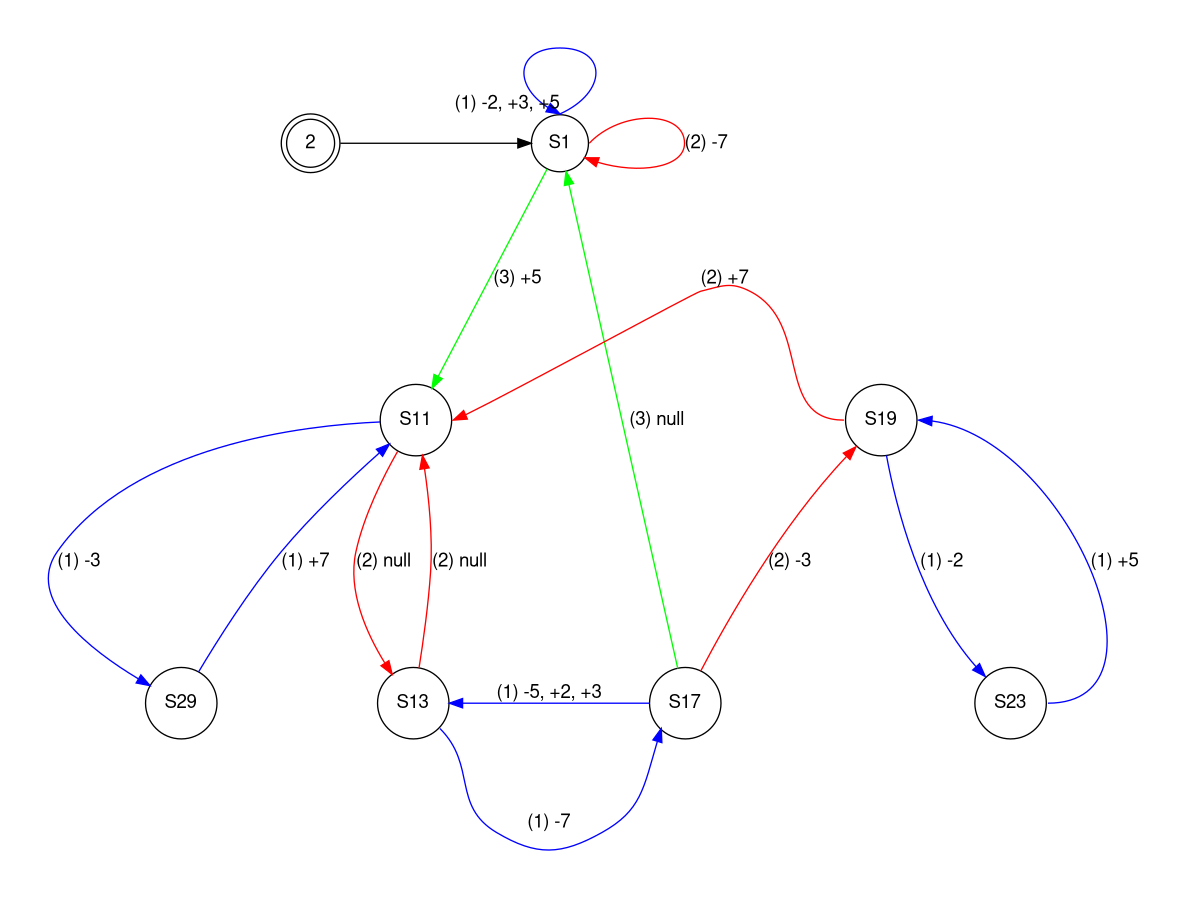
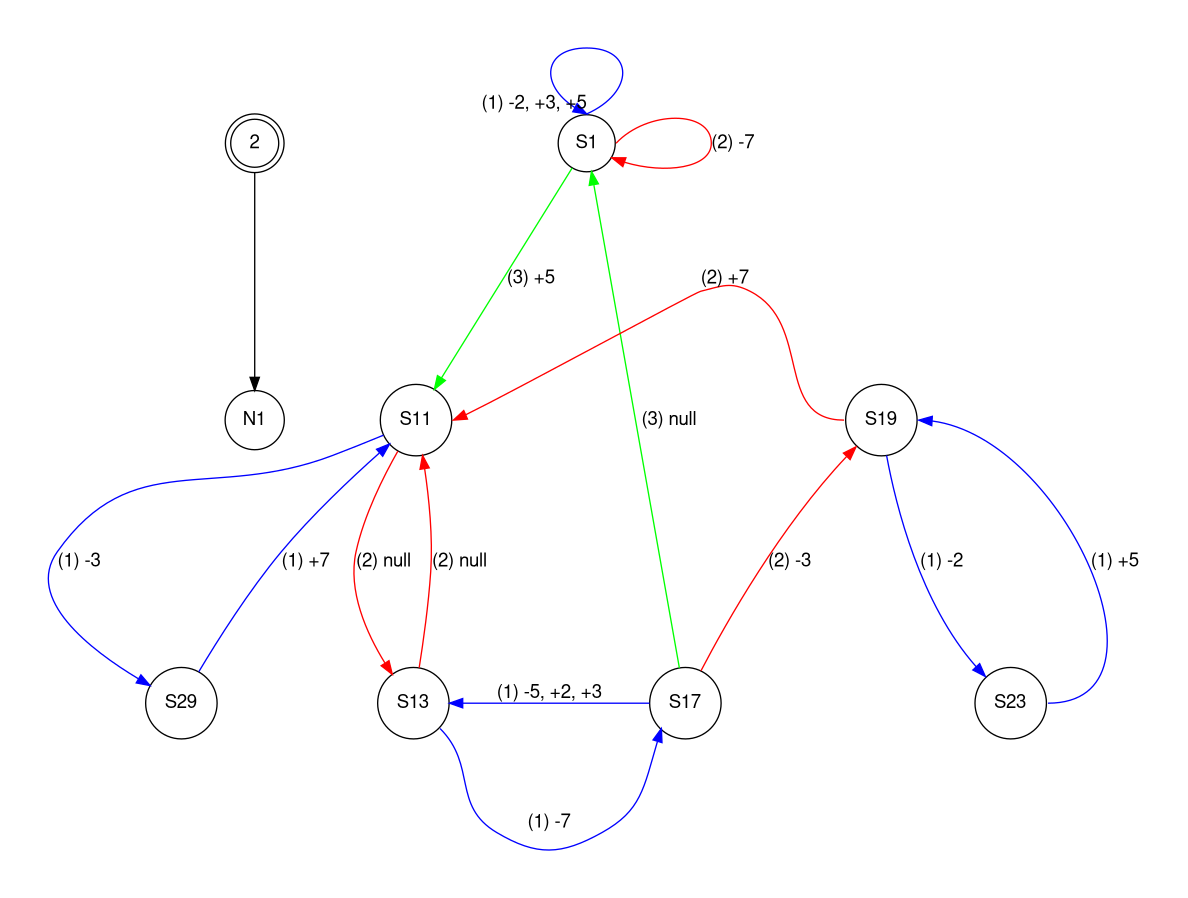
updates to fractran

diff --git a/posts/project-euler-num-308/index.html b/posts/project-euler-num-308/index.html
@@ -2,15 +2,17 @@
 <html lang="en">
 <head>
   
-    <title>FRACTRAN: John Conway&#39;s Programming Language Fun :: </title>
+    <title>FRACTRAN: John Conway’s Ridiculous Little Programming Language :: </title>
   
   <meta http-equiv="content-type" content="text/html; charset=utf-8">
 <meta name="viewport" content="width=device-width, initial-scale=1.0">
-<meta name="description" content="Some months back I learned of an esoteric programming languages created by mathematician John Conway. Conway also created the well known Game of Life.
-The language is called FRACTRAN (see here for a Conway lecture).
-Very simply a FRACTRAN program is an ordered list of positive fractions \[ f_1, f_2, &amp;hellip; f_a \] and an initial integer, \( n \).
-A FRACTRAN program is run in the following manner:
-for the first fraction \( f_i \) in the list for which \( n * f_i \) is an integer, replace \( n \) by \( n * f_i \) repeat the first rule until no fraction in the list produces an integer when multiplied by \( n \), then halt." />
+<meta name="description" content="Some months back I learned about an esoteric programming language created by mathematician John Conway. Conway also created the well-known Game of Life.
+The language is called FRACTRAN (there’s a wonderful introductory lecture by Conway himself here).
+Very simply, a FRACTRAN program is an ordered list of positive fractions
+\[ f_1, f_2, \ldots, f_k \]
+and an initial integer \( n \).
+The program runs like this:
+Find the first fraction \( f_i \) in the list such that \( n \cdot f_i \) is an integer, and replace \( n \) with that new integer." />
 <meta name="keywords" content="" />
 
   <meta name="robots" content="noodp" />
@@ -76,12 +78,14 @@ for the first fraction \( f_i \) in the list for which \( n * f_i \) is an integ
 
 <meta property="og:locale" content="en" />
 <meta property="og:type" content="article" />
-<meta property="og:title" content="FRACTRAN: John Conway&#39;s Programming Language Fun">
-<meta property="og:description" content="Some months back I learned of an esoteric programming languages created by mathematician John Conway. Conway also created the well known Game of Life.
-The language is called FRACTRAN (see here for a Conway lecture).
-Very simply a FRACTRAN program is an ordered list of positive fractions \[ f_1, f_2, &amp;hellip; f_a \] and an initial integer, \( n \).
-A FRACTRAN program is run in the following manner:
-for the first fraction \( f_i \) in the list for which \( n * f_i \) is an integer, replace \( n \) by \( n * f_i \) repeat the first rule until no fraction in the list produces an integer when multiplied by \( n \), then halt." />
+<meta property="og:title" content="FRACTRAN: John Conway’s Ridiculous Little Programming Language">
+<meta property="og:description" content="Some months back I learned about an esoteric programming language created by mathematician John Conway. Conway also created the well-known Game of Life.
+The language is called FRACTRAN (there’s a wonderful introductory lecture by Conway himself here).
+Very simply, a FRACTRAN program is an ordered list of positive fractions
+\[ f_1, f_2, \ldots, f_k \]
+and an initial integer \( n \).
+The program runs like this:
+Find the first fraction \( f_i \) in the list such that \( n \cdot f_i \) is an integer, and replace \( n \) with that new integer." />
 <meta property="og:url" content="https://kes.github.io/posts/project-euler-num-308/" />
 <meta property="og:site_name" content="" />
 
@@ -181,7 +185,7 @@ for the first fraction \( f_i \) in the list for which \( n * f_i \) is an integ
     
 <article class="post">
   <h1 class="post-title">
-    <a href="https://kes.github.io/posts/project-euler-num-308/">FRACTRAN: John Conway&rsquo;s Programming Language Fun</a>
+    <a href="https://kes.github.io/posts/project-euler-num-308/">FRACTRAN: John Conway’s Ridiculous Little Programming Language</a>
   </h1>
   <div class="post-meta"><time class="post-date">2025-11-16</time><span class="post-author">[Karl Stump]</span></div>
 
@@ -200,58 +204,24 @@ for the first fraction \( f_i \) in the list for which \( n * f_i \) is an integ
   
 
   <div class="post-content"><div>
-        <p>Some months back I learned of an esoteric programming languages created by mathematician <a href="https://en.wikipedia.org/wiki/John_Horton_Conway">John Conway</a>. Conway also created the well known  <a href="https://en.wikipedia.org/wiki/Conway%27s_Game_of_Life">Game of Life</a>.</p>
-<p>The language is called <a href="https://en.wikipedia.org/wiki/FRACTRAN">FRACTRAN</a> (see <a href="https://www.uctv.tv/shows/Fractran-A-Ridiculous-Logical-Language-with-John-Conway-23320">here</a> for a Conway lecture).</p>
-<p>Very simply a <code>FRACTRAN</code> program is an ordered list of positive fractions \[ f_1, f_2, &hellip; f_a \]
-and an initial integer, \( n \).</p>
-<p>A <code>FRACTRAN</code> program is run in the following manner:</p>
+        <p>Some months back I learned about an esoteric programming language created by mathematician <a href="https://en.wikipedia.org/wiki/John_Horton_Conway">John Conway</a>. Conway also created the well-known <a href="https://en.wikipedia.org/wiki/Conway%27s_Game_of_Life">Game of Life</a>.</p>
+<p>The language is called <a href="https://en.wikipedia.org/wiki/FRACTRAN">FRACTRAN</a> (there’s a wonderful introductory lecture by Conway himself <a href="https://www.uctv.tv/shows/Fractran-A-Ridiculous-Logical-Language-with-John-Conway-23320">here</a>).</p>
+<p>Very simply, a <code>FRACTRAN</code> program is an ordered list of positive fractions</p>
+<p>\[ f_1, f_2, \ldots, f_k \]</p>
+<p>and an initial integer \( n \).</p>
+<p>The program runs like this:</p>
 <ol>
-<li>for the first fraction \( f_i \) in the list for which \( n * f_i \) is an integer, replace \( n \) by \( n * f_i \)</li>
-<li>repeat the first rule until no fraction in the list produces an integer when multiplied by \( n \), then halt.</li>
+<li>Find the first fraction \( f_i \) in the list such that \( n \cdot f_i \) is an integer, and replace \( n \) with that new integer.</li>
+<li>Repeat step (1) until no fraction in the list produces an integer when multiplied by \( n \); then halt.</li>
 </ol>
-<p>Using the above two rules, Conway wrote a <del>list of fractions</del> program that produce a list of numbers that include ordered powers of two, such that their exponents are prime. (That&rsquo;s the type of statement that I have to repeat to make sure that I said it correctly.)</p>
-<p>So, amazingly, running the <code>FRACTRAN</code> program, we get a list of numbers like: \[ 2^2 , 2^3, 2^5, 2^7,  2^{11}, 2^{13} \dots  \]</p>
-<p>Notice those exponents are prime. But also notice that I said &ldquo;like.&rdquo; Here&rsquo;s the thing. While these exponents of 2 are prime, and ordered, there are lots of other numbers produced as well.</p>
-<p>So, we get: \( \text{garbage, garbage, garbage } \ldots 2^5 \text{ garbage, garbage, garbage } \ldots 2^7 \ldots \)&quot;</p>
-<p>Let&rsquo;s look at a <code>FRACTRAN</code> problem statement from <a href="https://projecteuler.net/about">Project Euler</a>.</p>
-<p>You can find the problem here: <a href="https://projecteuler.net/problem=308">https://projecteuler.net/problem=308</a></p>
-<p>And, I have reproduced it here:</p>
-<style>
-.verse {
-    margin-bottom: 10px;
-    padding: 10px;
-    ##background-color: #FFF8DC;
-    border-left: 2px solid #ffeb8e;
-    border-left-color: rgb(255, 228, 102);
-    display: block;
-    margin-block-start: 1em;
-    margin-block-end: 1em;
-    margin-inline-start: 40px;
-    margin-inline-end: 40px;
-}
-</style>
-<div class="verse">
-<p>A program written in the programming language Fractran consists of a list of fractions.<br />
-<br />
-The internal state of the Fractran Virtual Machine is a positive integer, which is initially set to a seed value. Each iteration of a Fractran program multiplies the state integer by the first fraction in the list which will leave it an integer.<br />
-<br />
-For example, one of the Fractran programs that John Horton Conway wrote for prime-generation consists of the following 14 fractions:<br />
-<br />
-<br />
-\[ \dfrac{17}{91}, \dfrac{78}{85}, \dfrac{19}{51}, \dfrac{23}{38}, \dfrac{29}{33}, \dfrac{77}{29}, \dfrac{95}{23}, \dfrac{77}{19}, \dfrac{1}{17}, \dfrac{11}{13}, \dfrac{13}{11}, \dfrac{15}{2}, \dfrac{1}{7}, \dfrac{55}{1} \]<br />
-<br />
-<br />
-Starting with the seed integer 2, successive iterations of the program produce the sequence:<br />
-<br />
-\( 15, 825, 725, 1925, 2275, 425, &hellip;, 68, 4, 30, &hellip;, 136, 8, 60, &hellip;, 544, 32, 240, &hellip; \)<br />
-<br />
-The powers of 2 that appear in this sequence are \( 2^2 \), \( 2^3 \), \( 2^5 \), \( &hellip; \)<br />
-<br />
-It can be shown that <em>all</em> the powers of 2 in this sequence have prime exponents and that <em>all</em> the primes appear as exponents of powers of 2, in proper order!<br />
-<br />
-If someone uses the above Fractran program to solve Project Euler Problem 7 (find the 10001st prime), how many iterations would be needed until the program produces 2^10001st prime?<br /></p>
-</div>
-<p>So, we want to find the number of iterations it takes for Conway&rsquo;s program to produce  \( 2^{10001^{st}\text{ prime }} \). Now, we know that the  10001<sup>st</sup>  prime is \( 104743 \) (See <a href="https://www.wolframalpha.com/input?i=10001st%20prime%20number">WolfRamAlpha</a>, or see <a href="https://kes.github.io/posts/project-euler-num-7/">my Lisp solution</a>). So the question is: how many iteration until we get \( 2^{104743} \) &ndash; a huge number, obviously. Fortunately we don&rsquo;t have to calculate it. So, again, (not to beat a dead horse) the number of iterations until \( 2 \) has an exponent of \( 104743 \).</p>
+<p>Using only this mechanism, Conway wrote a FRACTRAN program that generates a sequence of numbers in which certain terms are powers of two whose exponents are prime. For example, starting from 2, the program eventually produces values like</p>
+<p>\[ 2^2,\; 2^3,\; 2^5,\; 2^7,\; 2^{11},\; 2^{13}, \ldots \]</p>
+<p>The exponents are prime, and they appear in increasing order. In between those special values, the program produces a lot of &ldquo;other&rdquo; numbers &mdash; noise. The job ahead will be to navigate that noise efficiently.</p>
+<p>In this post, we’ll look at <a href="https://projecteuler.net/problem=308">Project Euler Problem 308</a>, which asks:</p>
+<blockquote>
+<p>If someone uses Conway’s <code>FRACTRAN</code> prime-generating program to &ldquo;solve&rdquo; Project Euler Problem 7 (find the 10,001st prime), how many iterations of the program are needed before we reach the power of two whose exponent is that prime?</p>
+</blockquote>
+<p>We can start with a simple <code>FRACTRAN</code> simulator in Common Lisp, then gradually uncover the finite state machine hiding inside Conway’s fraction list, and finally arrive at an optimized implementation that can handle the enormous iteration count.</p>
 <h2 id="the-idea-of-a-fractran-simulator">The Idea of a FRACTRAN Simulator<a href="#the-idea-of-a-fractran-simulator" class="hanchor" ariaLabel="Anchor">#</a> </h2>
 <p>In Common Lisp, we can define the program easily as a list of lists. For each list in the list <code>*fp*</code> below, the <code>car</code> (i.e., the first element of the list) is the numerator, while the <code>cadr</code> (i.e., the second element of the list) is the denominator.</p>
 <p><a id="code-snippet--fractran-program"></a></p>
@@ -262,9 +232,9 @@ If someone uses the above Fractran program to solve Project Euler Problem 7 (fin
 </span></span></code></pre></div><p>We can then define a function that runs the program for one iteration.</p>
 <p>To review a bit: we&rsquo;ve been told that we are to pass in a seed number, also called the state, and that number is multiplied by the first fraction. If we get an integer, we return that integer. If not, we discard the calculation and move on to the next fraction and follow the same process:</p>
 <ul>
-<li>multiple the state by the fraction, and if we get an integer then return it, otherwise, discard the calculation and move on.</li>
+<li>multiply the state by the fraction, and if we get an integer then return it, otherwise, discard the calculation and move on.</li>
 </ul>
-<p>If we exhaust all the fractions and hav not gotten an integer, the program halts. (However, if you look closely at Conway&rsquo;s <del>list of fractions</del> program, you can see that we will always get a new integer. <em>Hint</em> look at the last fraction.)</p>
+<p>If we exhaust all the fractions and have not gotten an integer, the program halts. (However, if you look closely at Conway&rsquo;s <del>list of fractions</del> program, you can see that we will always get a new integer. <em>Hint</em> look at the last fraction.)</p>
 <p>So, our function looks like this:</p>
 <div class="highlight"><pre tabindex="0" style="color:#f8f8f2;background-color:#272822;-moz-tab-size:4;-o-tab-size:4;tab-size:4;"><code class="language-lisp" data-lang="lisp"><span style="display:flex;"><span>(defun fractran-simulator (state program)
 </span></span><span style="display:flex;"><span>  <span style="color:#e6db74">&#34;Apply STATE, to the PROGRAM using the multiplication operator.  Return
@@ -398,7 +368,7 @@ text-align: center;
 <h2 id="more-analysis">More Analysis<a href="#more-analysis" class="hanchor" ariaLabel="Anchor">#</a> </h2>
 <p>Taking the prime factors in the <code>FRACTRAN</code> program:</p>
 <p>\( \dfrac{17}{7 \times 13}, \dfrac{2 \times 3 \times 13}{5 \times 17}, \dfrac{19}{3 \times 17}, \dfrac{23}{2 \times 19}, \dfrac{29}{3 \times 11}, \dfrac{7 \times 11}{29}, \dfrac{5 \times 19}{23}, \dfrac{7 \times 11}{19}, \dfrac{1}{17}, \dfrac{11}{13}, \dfrac{13}{11}, \dfrac{3 \times 5}{2}, \dfrac{1}{7}, \dfrac{5 \times 11}{1} \)</p>
-<p>We need to consider exactly what is happening when we run the program. So, We start with \( 2 \). This is then multiplied by the fraction \( \dfrac{17}{7 \times 13} \). But what does that really mean? Multiplication is putting in factors, while division is taking out factors. So, we get,</p>
+<p>We need to consider exactly what is happening when we run the program. So, we start with \( 2 \). This is then multiplied by the fraction \( \dfrac{17}{7 \times 13} \). But what does that really mean? Multiplication is putting in factors, while division is taking out factors. So, we get,</p>
 <p>\[ \dfrac{2 \times 17}{7 \times 13} \]</p>
 <p>Clearly, this is not an integer. Let&rsquo;s move on to the next fraction, \(\dfrac{2 \times 3 \times 13}{5 \times 17} \), and multiplying by 2, we get</p>
 <p>\[ \dfrac{2^2 \times 3 \times 13}{5 \times 17} \]</p>
@@ -478,7 +448,7 @@ text-align: center;
 </table>
 </div>
 <p>Finally, we get an integer, \( 15 \), which we will feed back into the <code>FRACTRAN</code> program.</p>
-<p>It shouldn&rsquo;t be too hard to see that in the <code>FRACTAN</code> program the last fraction \( \dfrac{5 \times 11}{1} \) is a catchall, and when we feed \( 15 \) back into the program, it is only this fraction that when multiplied by \( 15 \) returns an integer, and so, iteration two gives us, \[ \dfrac{3 \times 5^2 \times 11}{1} \longrightarrow  825 \]</p>
+<p>It shouldn&rsquo;t be too hard to see that in the <code>FRACTRAN</code> program the last fraction \( \dfrac{5 \times 11}{1} \) is a catchall, and when we feed \( 15 \) back into the program, it is only this fraction that when multiplied by \( 15 \) returns an integer, and so, iteration two gives us, \[ \dfrac{3 \times 5^2 \times 11}{1} \longrightarrow  825 \]</p>
 <p>Now, a quiz. If we feed in \( 825 \) into the program, what is the first fraction that will return an integer? And what is the resulting integer value?</p>
 <p>If you said \( \dots \)</p>
 <p>\[ \dfrac{3 \times 5^2 \times 11}{1} \times \dfrac{29}{3 \times 11} \longrightarrow \dfrac{\cancel{3} \times 5^2 \times \cancel{11} \times 29}{\cancel{3} \times \cancel{11}} \longrightarrow 725 \]</p>
@@ -1159,21 +1129,21 @@ text-align: center;
 replaced it with &ldquo;&ndash;&rdquo;. This removes a lot of clutter and make the table easier to read.</p>
 <p>Examining the table it looks like primes \( 11 \) through \( 29 \) are mutually exclusive (an <code>XOR</code>). Only
 one can be on at a time.</p>
-<p>So, primes \( 11 \) through \( 29 \) function as nodes, in a state machine, while primes \( 2, 3, 5, \text{ and } 7 \) function as state.</p>
-<p>This distinction between the primes \( 11 \) through \( 29 \) and the primes \( 2 \)through \( 7 \) will become really important, like, right now!</p>
-<h2 id="grok-the-fractran-man">Grok the FRACTRAN, Man!<a href="#grok-the-fractran-man" class="hanchor" ariaLabel="Anchor">#</a> </h2>
+<p>So primes \( 11 \) through \( 29 \) function as <em>control nodes</em> in a finite state machine, while primes \( 2,3,5, \text{ and } 7 \) encode the data state (their exponents are the “registers” we’re updating).</p>
+<p>This distinction between the primes \( 11 \) through \( 29 \) and the primes \( 2 \) through \( 7 \) will become really important, like, right now!</p>
+<h2 id="grokking-fractran">Grokking FRACTRAN<a href="#grokking-fractran" class="hanchor" ariaLabel="Anchor">#</a> </h2>
 <p>Let&rsquo;s define a finite state machine (FSM) with a starting node, labeled \( 1 \), and further that there are nodes numbered, \( 11, 13, 17, 19, 23, 29 \), and that these nodes have edges.</p>
 <p>The FSM, also, has state, carried in factors, \( 2, 3, 5, \text{ and } 7 \) (or in variables representing those factors). Simply, think of exponents. So, the factor \( 2 \) we might say, has a value of \( 3 \), and this simply means, \( 2^3 \)</p>
 <p>In general moving along an edge, from node to node, will increment or decrement some, all, or no, factors. However, in no case, is a move permitted along any edge that causes the value of a factor to be less than zero.</p>
-<p>Every fraction in Conway&rsquo;s program, defines a node and an edge.</p>
+<p>Every fraction in Conway&rsquo;s program defines a node and an edge.</p>
 <p>Consider the first fraction in the program: \[ \dfrac{17}{7 \times 13} \]</p>
 <p>This fraction tells us that there is a node \( 13\) with an edge to node \( 17 \). Further movement along that edge decrements factor \( 7 \).</p>
 <p>If we look for other fractions with \( 13 \) in the denominator, we find: \[ \dfrac{11}{13} \]</p>
 <p>This means that node \( 13 \) also has a null edge to node \( 11 \).</p>
 <p>Now, since there are no other fractions with \( 13 \) in the denominator, this finishes the definition of node \( 13 \).</p>
 <p>So, there is in the FSM, node \(13\) with two edges. The first is to node \( 17 \) (allowed only if the current state value has a factor of \( 7 \) ), and a second null edge, to node \( 11 \).</p>
-<p>Note that the <code>FRACTRAN</code> program runs from left to right, so in the event of more than one edge from a node, there is a priority. The edge from node \( 13 \) to \( 17 \) takes priority over the transition to node \( 11 \).</p>
-<p>Working in this way, we can define our FSM as follows:</p>
+<p>Note that the <code>FRACTRAN</code> program runs from left to right, so in the event of more than one edge from a node, there is a priority. In programming languages this is called <em>associativity</em>. In <code>FRACTRAN</code> the <em>associativity</em> is left to right. In this example, the edge from node \( 13 \) to \( 17 \) takes priority over the edge to node \( 11 \).</p>
+<p>Working in this way, we can define our FSM as follows (if you are not conversant with dot code, don&rsquo;t worry about it, the actual diagram follows):</p>
 <pre tabindex="0"><code class="language-dot" data-lang="dot">digraph finite_state_machine {
     graph [pad=&#34;0.5&#34;, nodesep=&#34;1&#34;, ranksep=&#34;2&#34;];
     splines=true;
@@ -1183,7 +1153,7 @@ one can be on at a time.</p>
 
 	node [shape = doublecircle]; 2
 	node [shape = circle];
-2-&gt;S1
+2-&gt;N1
 S1:n -&gt; S1:n[margin=1;headlabel=&#34;(1) -2, +3, +5&#34;;color=blue];
 S1:e -&gt; S1[label=&#34;(2) -7&#34;;color=red];
 S1 -&gt; S11[label=&#34;(3) +5&#34;; color=green];
@@ -1210,7 +1180,7 @@ S29 -&gt; S11[label=&#34;(1) +7&#34;;color=blue];
 {rank=same; S11;S19};
 { rank=max;  S23;S13; S17; }
 }
-</code></pre><p>Which gives:</p>
+</code></pre><p>From the fraction list, the following is the equivalent finite state machine, where each “node” corresponds to one of the large primes \( 11,13,17,19,23,29 \) and the factors \( 2,3,5,7 \) the “registers” in the system.</p>
 <figure><img src="/ox-hugo/test.png"/>
 </figure>
 
@@ -2944,8 +2914,8 @@ text-align: center;
 <p>But now, we need speed.</p>
 <h2 id="fractran-for-real">FRACTRAN For Real<a href="#fractran-for-real" class="hanchor" ariaLabel="Anchor">#</a> </h2>
 <p>I rewrote the FSM using <code>tagbody</code>, which is a Common Lisp feature that allows you to <code>goto</code>. It is perfect for this project.</p>
-<p>I also identified some optimizations. These are easily discernible from the graph of FSM. For example, <code>S11</code> and <code>S29</code>, and <code>S13</code> and <code>S17</code>. In the code below I have documented where these optimizations have been made, and left behind old code in comments.</p>
-<p>The code below is very simple. One thing to note is that there are no loops, only <code>gotos</code>. We simply move from node to node (called states in this code) until we get our answer.</p>
+<p>I also identified some optimizations. These are easily discernible from the FSM graph. For example, <code>S11</code> and <code>S29</code>, and <code>S13</code> and <code>S17</code>. In the code below I have documented where these optimizations have been made, and left behind old code in comments.</p>
+<p>The code below is very simple. One thing to note is that there are no loops, only <code>gotos</code>. We simply move from node to node (called &ldquo;states&rdquo; in the code) until we get our answer.</p>
 <div class="highlight"><pre tabindex="0" style="color:#f8f8f2;background-color:#272822;-moz-tab-size:4;-o-tab-size:4;tab-size:4;"><code class="language-lisp" data-lang="lisp"><span style="display:flex;"><span>
 </span></span><span style="display:flex;"><span>(defparameter *f-count* <span style="color:#ae81ff">0</span> <span style="color:#e6db74">&#34;iteration count&#34;</span>)
 </span></span><span style="display:flex;"><span>(defparameter *f-primes* <span style="color:#ae81ff">0</span> <span style="color:#e6db74">&#34;count of prime found so far&#34;</span>)
@@ -3168,8 +3138,19 @@ text-align: center;
 </span></span><span style="display:flex;"><span>1539669807660924
 </span></span><span style="display:flex;"><span>1539669807660924
 </span></span><span style="display:flex;"><span>CL-USER&gt;
-</span></span></code></pre></div><p>Wow, we shaved 16 seconds off our time.</p>
-<p><code>FRACTRAN</code>, pretty cool.</p>
+</span></span></code></pre></div><p>Wow, we shaved 16 seconds off the time.</p>
+<h2 id="conclusion">Conclusion<a href="#conclusion" class="hanchor" ariaLabel="Anchor">#</a> </h2>
+<p>In the end, we learn two things:</p>
+<ul>
+<li>
+<p>It takes exactly \( 1,539,669,807,660,924 \) iterations of Conway’s <code>FRACTRAN</code> program to reach the power of two whose exponent is the \( 10,001^{st} \) prime.</p>
+</li>
+<li>
+<p>By understanding the <code>FRACTRAN</code> program as a finite state machine, and then optimizing the transitions, we can go from a naive simulator to a zero-consing, tagbody-based implementation that solves the problem in just over one minute.</p>
+</li>
+</ul>
+<p>For a &ldquo;ridiculous&rdquo; little language, <code>FRACTRAN</code> is mind-expanding, and from a programming standpoint, an excellent way to explore number theory, automata, and performance tuning.</p>
+<p><code>FRACTRAN</code>: pretty cool.</p>
 
       </div></div>
 

diff --git a/index.html b/index.html
@@ -186,7 +186,7 @@
     
       <article class="post on-list">
         <h2 class="post-title">
-          <a href="https://kes.github.io/posts/project-euler-num-308/">FRACTRAN: John Conway&rsquo;s Programming Language Fun</a>
+          <a href="https://kes.github.io/posts/project-euler-num-308/">FRACTRAN: John Conway’s Ridiculous Little Programming Language</a>
         </h2>
 
         <div class="post-meta"><time class="post-date">2025-11-16</time><span class="post-author">[Karl Stump]</span></div>
@@ -206,11 +206,13 @@
 
         <div class="post-content">
           
-            Some months back I learned of an esoteric programming languages created by mathematician John Conway. Conway also created the well known Game of Life.
-The language is called FRACTRAN (see here for a Conway lecture).
-Very simply a FRACTRAN program is an ordered list of positive fractions \[ f_1, f_2, &hellip; f_a \] and an initial integer, \( n \).
-A FRACTRAN program is run in the following manner:
-for the first fraction \( f_i \) in the list for which \( n * f_i \) is an integer, replace \( n \) by \( n * f_i \) repeat the first rule until no fraction in the list produces an integer when multiplied by \( n \), then halt.
+            Some months back I learned about an esoteric programming language created by mathematician John Conway. Conway also created the well-known Game of Life.
+The language is called FRACTRAN (there’s a wonderful introductory lecture by Conway himself here).
+Very simply, a FRACTRAN program is an ordered list of positive fractions
+\[ f_1, f_2, \ldots, f_k \]
+and an initial integer \( n \).
+The program runs like this:
+Find the first fraction \( f_i \) in the list such that \( n \cdot f_i \) is an integer, and replace \( n \) with that new integer.
           
         </div>
 

diff --git a/posts/index.html b/posts/index.html
@@ -176,7 +176,7 @@
     
       <article class="post on-list">
         <h2 class="post-title">
-          <a href="https://kes.github.io/posts/project-euler-num-308/">FRACTRAN: John Conway&rsquo;s Programming Language Fun</a>
+          <a href="https://kes.github.io/posts/project-euler-num-308/">FRACTRAN: John Conway’s Ridiculous Little Programming Language</a>
         </h2>
         <div class="post-meta"><time class="post-date">2025-11-16</time><span class="post-author">[Karl Stump]</span></div>
 
@@ -195,11 +195,13 @@
 
         <div class="post-content">
           
-            Some months back I learned of an esoteric programming languages created by mathematician John Conway. Conway also created the well known Game of Life.
-The language is called FRACTRAN (see here for a Conway lecture).
-Very simply a FRACTRAN program is an ordered list of positive fractions \[ f_1, f_2, &hellip; f_a \] and an initial integer, \( n \).
-A FRACTRAN program is run in the following manner:
-for the first fraction \( f_i \) in the list for which \( n * f_i \) is an integer, replace \( n \) by \( n * f_i \) repeat the first rule until no fraction in the list produces an integer when multiplied by \( n \), then halt.
+            Some months back I learned about an esoteric programming language created by mathematician John Conway. Conway also created the well-known Game of Life.
+The language is called FRACTRAN (there’s a wonderful introductory lecture by Conway himself here).
+Very simply, a FRACTRAN program is an ordered list of positive fractions
+\[ f_1, f_2, \ldots, f_k \]
+and an initial integer \( n \).
+The program runs like this:
+Find the first fraction \( f_i \) in the list such that \( n \cdot f_i \) is an integer, and replace \( n \) with that new integer.
           
         </div>
 

diff --git a/tags/euler/index.html b/tags/euler/index.html
@@ -177,7 +177,7 @@
     
       <article class="post on-list">
         <h1 class="post-title">
-          <a href="https://kes.github.io/posts/project-euler-num-308/">FRACTRAN: John Conway&rsquo;s Programming Language Fun</a>
+          <a href="https://kes.github.io/posts/project-euler-num-308/">FRACTRAN: John Conway’s Ridiculous Little Programming Language</a>
         </h1>
         <div class="post-meta"><time class="post-date">2025-11-16</time><span class="post-author">[Karl Stump]</span></div>
 
@@ -196,11 +196,13 @@
 
         <div class="post-content">
           
-            Some months back I learned of an esoteric programming languages created by mathematician John Conway. Conway also created the well known Game of Life.
-The language is called FRACTRAN (see here for a Conway lecture).
-Very simply a FRACTRAN program is an ordered list of positive fractions \[ f_1, f_2, &hellip; f_a \] and an initial integer, \( n \).
-A FRACTRAN program is run in the following manner:
-for the first fraction \( f_i \) in the list for which \( n * f_i \) is an integer, replace \( n \) by \( n * f_i \) repeat the first rule until no fraction in the list produces an integer when multiplied by \( n \), then halt.
+            Some months back I learned about an esoteric programming language created by mathematician John Conway. Conway also created the well-known Game of Life.
+The language is called FRACTRAN (there’s a wonderful introductory lecture by Conway himself here).
+Very simply, a FRACTRAN program is an ordered list of positive fractions
+\[ f_1, f_2, \ldots, f_k \]
+and an initial integer \( n \).
+The program runs like this:
+Find the first fraction \( f_i \) in the list such that \( n \cdot f_i \) is an integer, and replace \( n \) with that new integer.
           
         </div>
 

diff --git a/tags/lisp/index.html b/tags/lisp/index.html
@@ -177,7 +177,7 @@
     
       <article class="post on-list">
         <h1 class="post-title">
-          <a href="https://kes.github.io/posts/project-euler-num-308/">FRACTRAN: John Conway&rsquo;s Programming Language Fun</a>
+          <a href="https://kes.github.io/posts/project-euler-num-308/">FRACTRAN: John Conway’s Ridiculous Little Programming Language</a>
         </h1>
         <div class="post-meta"><time class="post-date">2025-11-16</time><span class="post-author">[Karl Stump]</span></div>
 
@@ -196,11 +196,13 @@
 
         <div class="post-content">
           
-            Some months back I learned of an esoteric programming languages created by mathematician John Conway. Conway also created the well known Game of Life.
-The language is called FRACTRAN (see here for a Conway lecture).
-Very simply a FRACTRAN program is an ordered list of positive fractions \[ f_1, f_2, &hellip; f_a \] and an initial integer, \( n \).
-A FRACTRAN program is run in the following manner:
-for the first fraction \( f_i \) in the list for which \( n * f_i \) is an integer, replace \( n \) by \( n * f_i \) repeat the first rule until no fraction in the list produces an integer when multiplied by \( n \), then halt.
+            Some months back I learned about an esoteric programming language created by mathematician John Conway. Conway also created the well-known Game of Life.
+The language is called FRACTRAN (there’s a wonderful introductory lecture by Conway himself here).
+Very simply, a FRACTRAN program is an ordered list of positive fractions
+\[ f_1, f_2, \ldots, f_k \]
+and an initial integer \( n \).
+The program runs like this:
+Find the first fraction \( f_i \) in the list such that \( n \cdot f_i \) is an integer, and replace \( n \) with that new integer.
           
         </div>
 

diff --git a/posts/learning-never-stops/index.html b/posts/learning-never-stops/index.html
@@ -261,7 +261,7 @@ I was struck by how difficult it was to understand—not because the manual is p
   <div class="pagination__buttons">
     
       <a href="https://kes.github.io/posts/project-euler-num-308/" class="button inline prev">
-        &lt; [<span class="button__text">FRACTRAN: John Conway&#39;s Programming Language Fun</span>]
+        &lt; [<span class="button__text">FRACTRAN: John Conway’s Ridiculous Little Programming Language</span>]
       </a>
     
     
